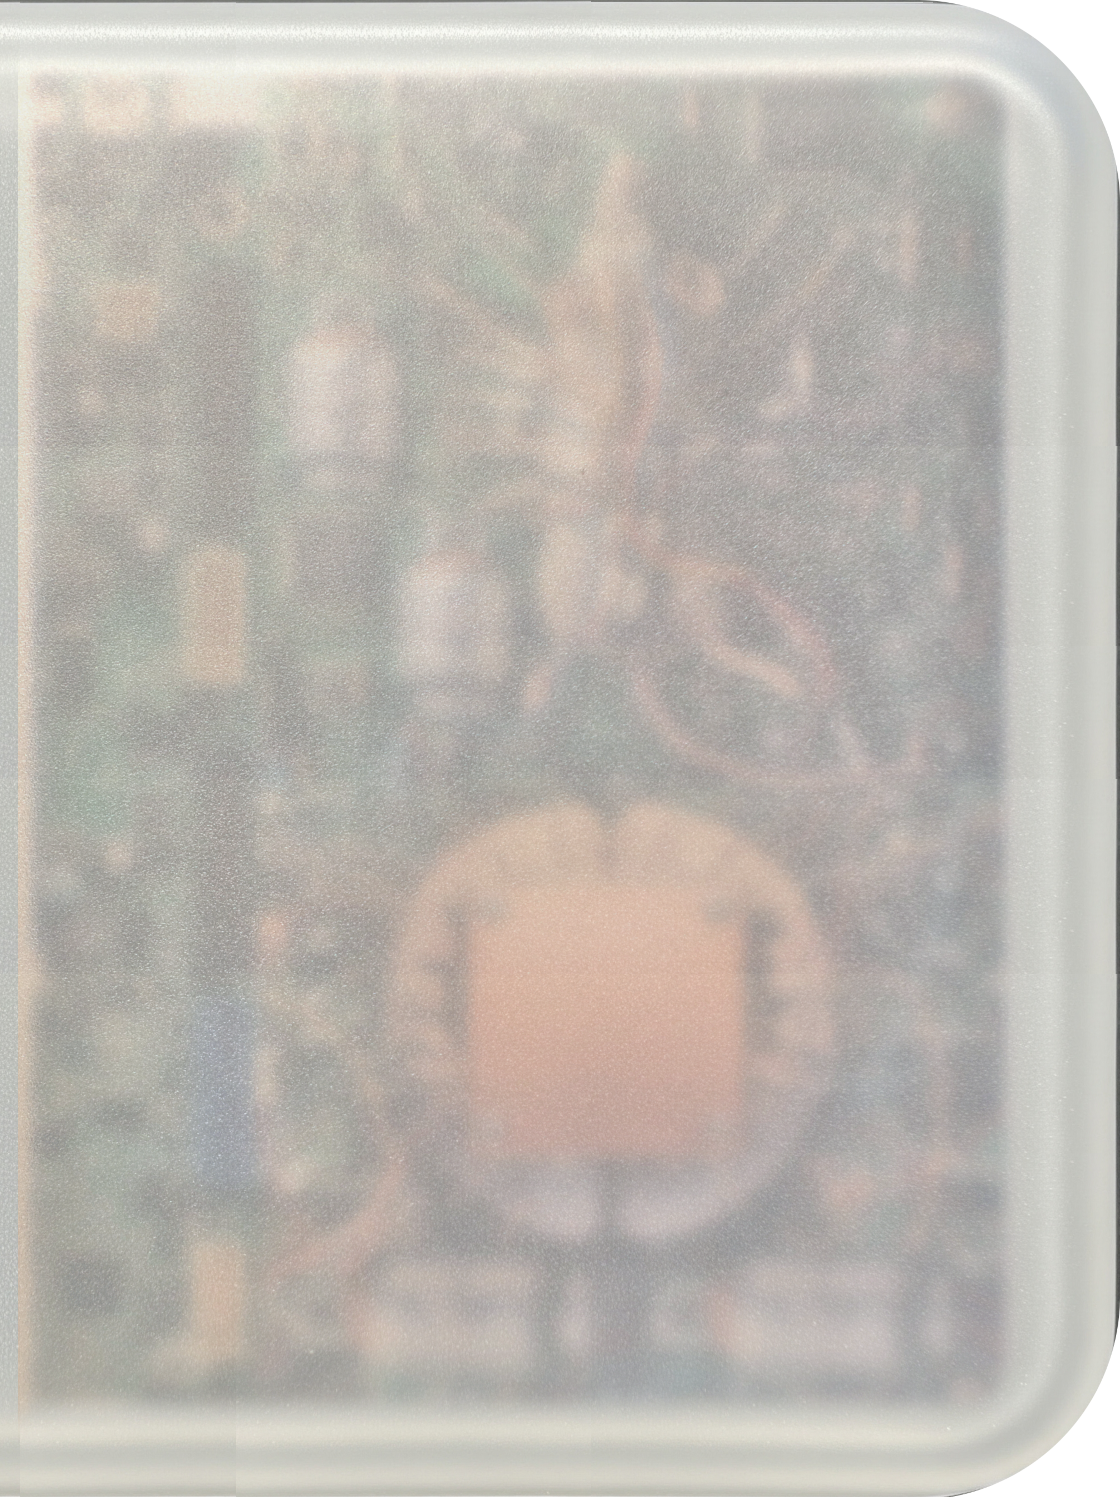
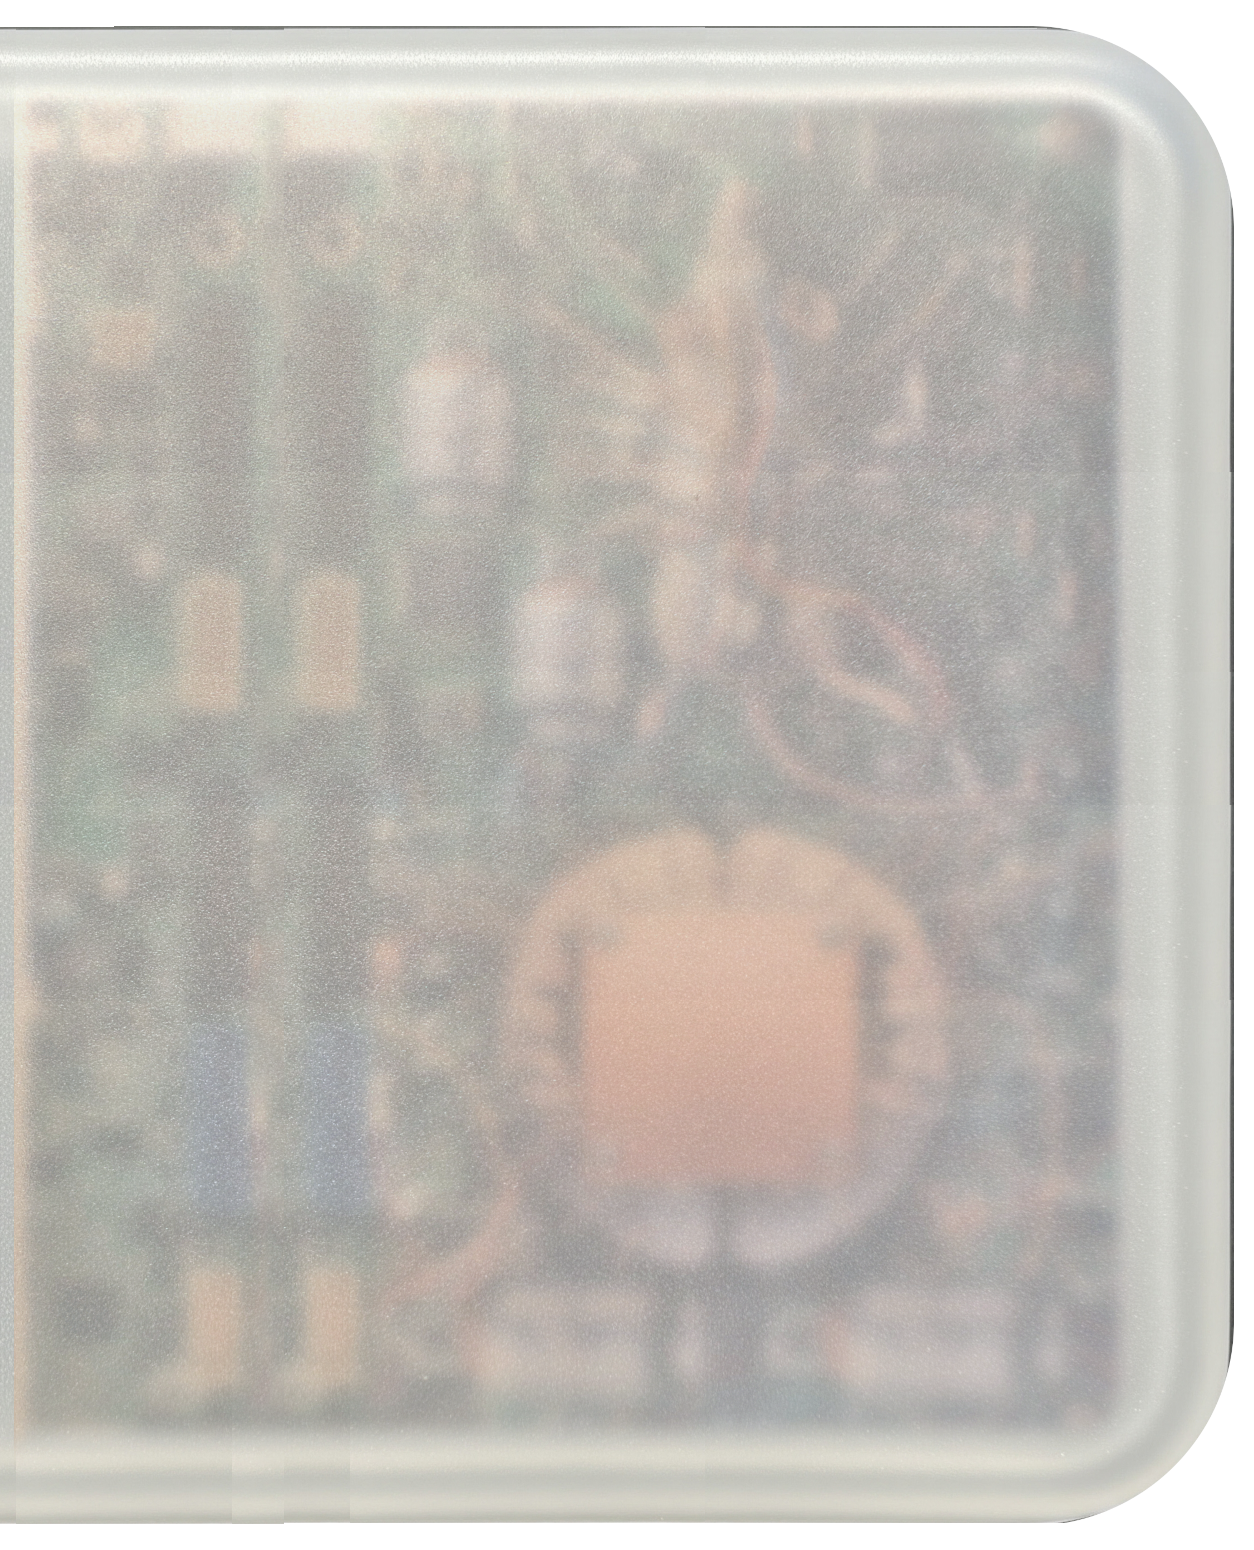
此れは所謂ホラーというものであるか？

diff --git a/project-HorRoR/css/ed1.css b/project-HorRoR/css/ed1.css
@@ -18,7 +18,7 @@
     font-family: "Zen Old Mincho", serif;
     font-weight: 300;
     font-style: normal;
-    font-size: 18px;
+    font-size: clamp(5px, 2vh, 18px);
 }
 
 .ipad {
@@ -35,10 +35,10 @@
 
 .motherb {
     width:calc(100vw - 130vh);
-    margin-top: 2vh;
     margin-left: -7vh;
+    margin-top: 1vh;
     background-image: url(../image_h/ipad-right.png);
-    background-size: 73vh;
+    background-size: 81.5vh;
     background-position: right;
     background-repeat: no-repeat;
     z-index: -1;
@@ -49,7 +49,7 @@ h4 {
     margin-bottom: .4em;
     padding-left: 1%;
     font-weight: 800;
-    font-size: 18px;
+    font-size: clamp(5px, 2vh, 18px);
     border-left: 5px solid #000000;
     border-bottom: 1px solid #000000;
 }
@@ -58,7 +58,7 @@ h5 {
     margin-top: 2%;
     margin-bottom: 0;
     font-weight: 500;
-    font-size: 18px;
+    font-size: clamp(5px, 2vh, 18px);
     text-decoration: underline;
 }
 
@@ -70,8 +70,8 @@ p {
 .title {
     font-family: "BIZ UDGothic", sans-serif;
     font-weight: 700;
-    font-size: 20px;
-    letter-spacing: 1rem;
+    font-size: clamp(5px, 2vh, 20px);
+    letter-spacing: clamp(.1rem, 2vh, 1rem);
     height: 10%;
     padding-top: 8%;
     text-align:center;
@@ -110,7 +110,7 @@ p {
 .panel h2{
     font-family: "BIZ UDGothic", sans-serif;
     font-weight: 700;
-    font-size: 18px;
+    font-size: clamp(5px, 2vh, 18px);
     margin-top: 15%;
     padding-left: 5%;
 }
@@ -118,9 +118,10 @@ p {
 .panel h1 {
     font-family: "BIZ UDGothic", sans-serif;
     font-weight: 700;
-    font-size: 28px;
+    font-size: clamp(8px, 3vh, 28px);
     text-align:right;
     padding-right: 15%;
+    margin-bottom: 0;
     margin-left: 5%;
     border-bottom: 2px solid #000000;
 }
@@ -130,7 +131,7 @@ button.again {
     height:15%;
     font-family: "BIZ UDGothic", sans-serif;
     font-weight: 700;
-    font-size: 18px;
+    font-size: clamp(5px, 1.5vh, 18px);
     letter-spacing: .1em;
     color: #ffffff;
     text-shadow: 0 0 5px #dec9a1;
@@ -139,14 +140,14 @@ button.again {
     border-right: 5px solid #7c0000;
     border-bottom: 5px solid #7c0000;
     border-radius: .2em;
-    margin-left: 7%;
-    margin-top: 5%;
+    margin-left: 10%;
+    margin-top: 1.9vh;
 }
 
 h1.upside {
     margin:0;
     padding: 5%;
-    font-size: 25px;
+    font-size: clamp(10px, 3vh, 25px);
     text-align: center;
     padding-right: 10%;
     background-color: #d3d3d3;
@@ -162,7 +163,7 @@ h1.upside {
     border-radius: 2em;
     font-family: "BIZ UDGothic", sans-serif;
     font-weight: 700;
-    font-size: 15px;
+    font-size: clamp(5px, 1.7vh, 15px);
     text-align: right;
     background-color: #fff;
     z-index: 3;

diff --git a/project-HorRoR/ed1.html b/project-HorRoR/ed1.html
@@ -1,15 +1,12 @@
 <html lang="ja">
 <head>
     <meta charset="UTF-8">
-	<link rel="stylesheet" href="css/test-a.css">
+	<link rel="stylesheet" href="css/ed1.css">
 	<link rel="icon" href="favicon.ico">
     <link rel="preconnect" href="https://fonts.googleapis.com">
     <link rel="preconnect" href="https://fonts.gstatic.com" crossorigin>
     <link href="https://fonts.googleapis.com/css2?family=Zen+Old+Mincho:wght@400;500;600;700;900&display=swap" rel="stylesheet">
     <link href="https://fonts.googleapis.com/css2?family=Zen+Old+Mincho:wght@400;500;600;700;900&display=swap" rel="stylesheet">
-    
-    <link rel="stylesheet" href="https://unpkg.com/@auroratide/typewritten-text/lib/style.css" />
-    <script type="module" src="https://unpkg.com/@auroratide/typewritten-text/lib/define.js"></script>
 
 	<meta name="viewport" content="width=device-width, initial-scale=1.0, user-scalable=no" />
 
